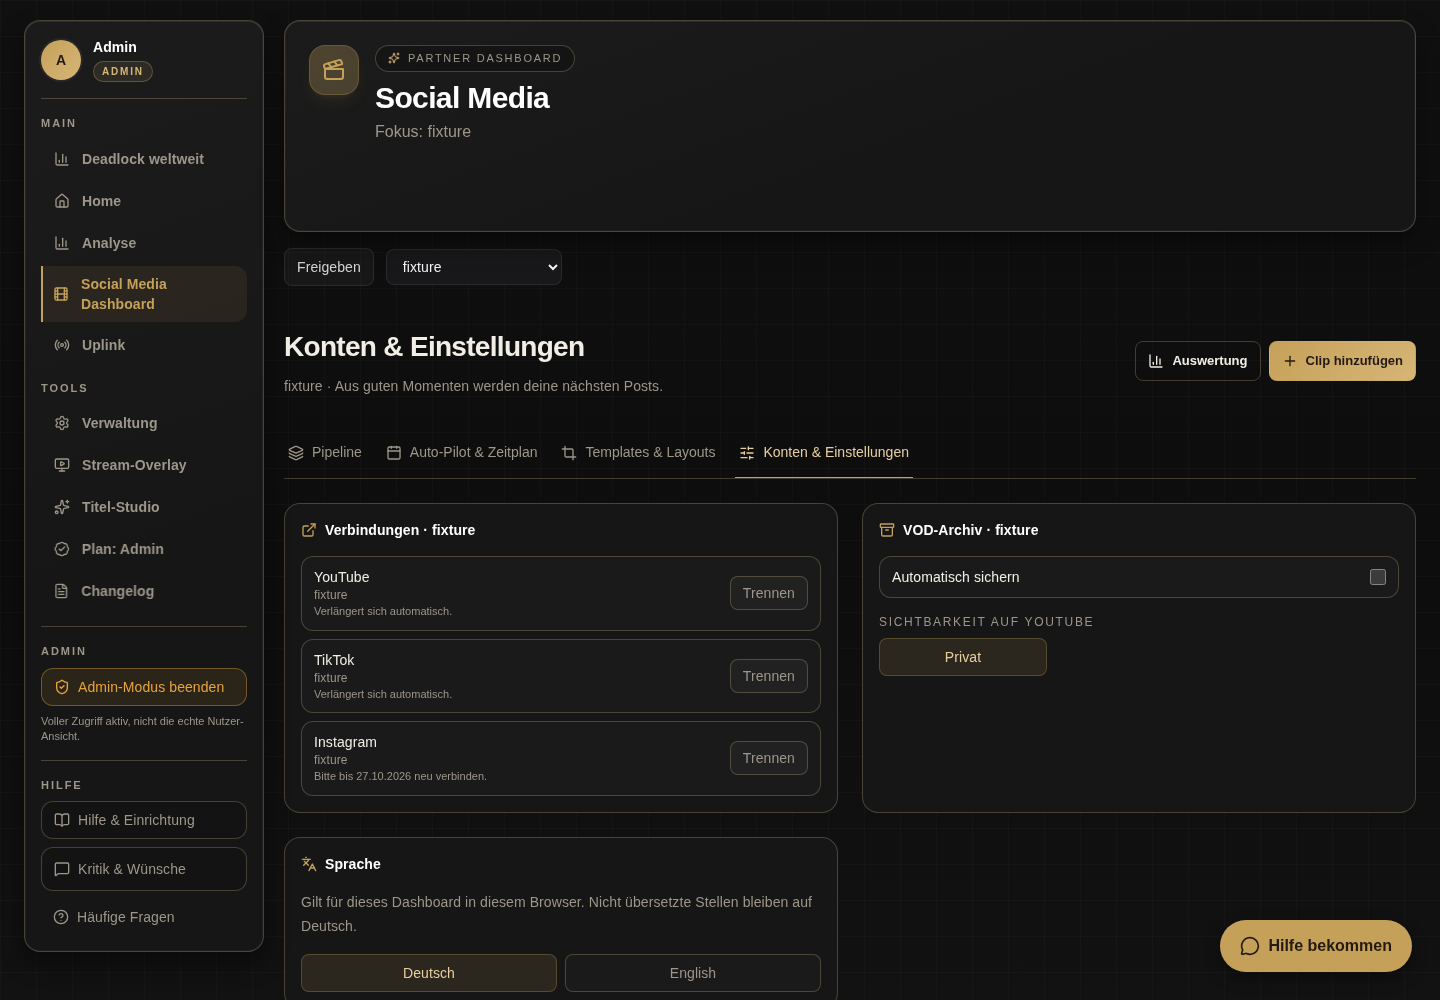
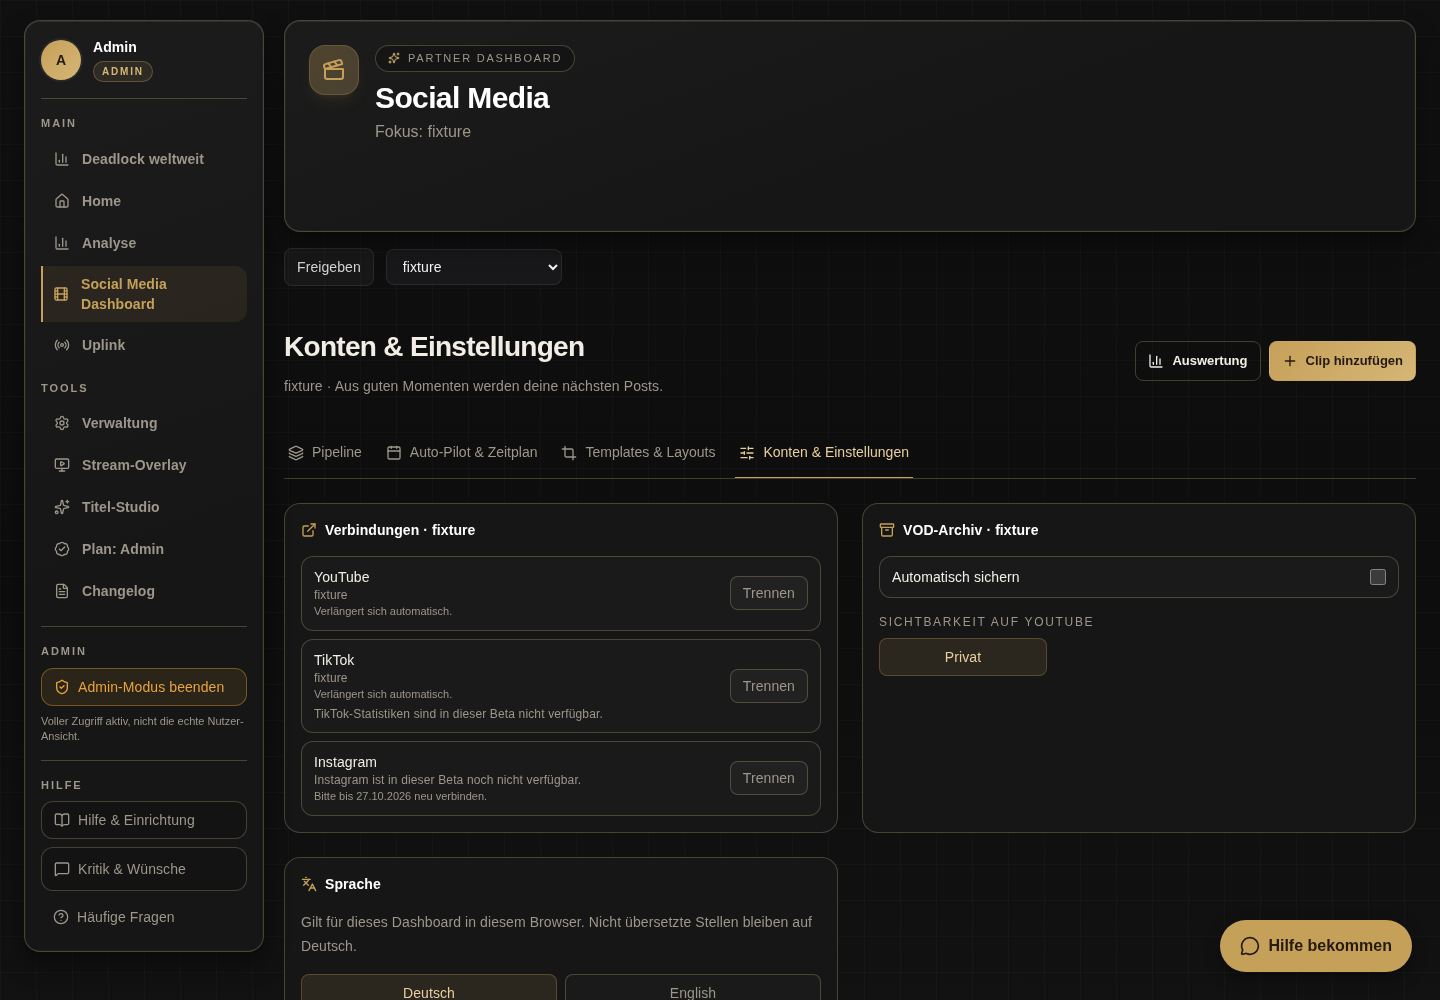
Bildproben nach Upload-Integration erneuern

diff --git a/.tasks/2026-10-07-social-token-ablauf/EVIDENCE.md b/.tasks/2026-10-07-social-token-ablauf/EVIDENCE.md
@@ -1,5 +1,15 @@
 # Prüfnachweise
 
+## Reguläre Integration des neuen Main-Stands
+
+Der geschützte Main-Push wurde abgewiesen, weil `origin/main` während des Reviews von `e0b0dbaf` auf `07f511a3` vorgerückt war. Der fremd veränderte Haupt-Checkout blieb unangetastet. Die alte Remote-Feature-Historie wurde regulär integriert; `ba9bd07c` hatte einen bytegleichen Baum zu `31044228`. Danach entstand der Main-basierte Integrationsbranch `merge/social-token-ablauf-r2`. Der reguläre Merge des neuen Main-Stands ist `e5d0613e`.
+
+Die beiden Konflikte wurden zusammengeführt: Der Rust-Statusleser behält die fallible Credential- und Metadata-Abfrage sowie die neue ID-gebundene Erkennung gemeinsamer Konten. Die Karte behält die neuen Upload-Funktionen und ungekürzten Kontohinweise sowie die Ablaufwahl und den Hinweis zur automatischen Verlängerung. Neue UI oder Versandstrecken wurden nicht gebaut. Das frühere ALLOW deckt diese neue Integration nicht ab.
+
+Dashboard-Vertrag und i18n: 28 passed, 0 failed, 0 skipped, Exit 0. Der erste Dashboard-Build wurde nach 120 Sekunden vom Harness beendet und zählt nicht als Erfolg. Der Wiederholungslauf mit ausreichendem Zeitlimit hat Exit 0; Artefakt `index-CGJC471q.js`. Die fünf Chromium-Proben am neuen Artefakt haben Exit 0, keine Seitenfehler und Dokumentbreite 1440 bei Viewport 1440. Fixtures enthalten jetzt die vom API gelieferten Upload-Fähigkeiten einschließlich der gesperrten Instagram-Beta. Bilder und `ui-proof.json` wurden erneuert. `metadata-read-error.png` und `nonrenewable-6-days.png` wurden visuell geprüft. Formatprüfung der drei Statusdateien: Exit 0. Weitere Rust-Prüfungen und das neue Gate stehen noch aus.
+
+Migration und Produktionshilfe sind unverändert mit denselben SHA384-Werten. Die reine Produktionsleseprobe `PROD-STATE-INTEGRATION.sql` bestätigt Datenbank `twitch_analytics`, Rolle `postgres` und noch keinen Eintrag für `20261007120000` oder `20261007213000`. Der direkte Dateizugriff durch `postgres` war wegen der privaten Home-Verzeichnisse nicht lesbar; die unveränderte Leseprobe wurde als Standardinput übergeben. Keine Produktionsdaten wurden geändert. Der Deploy-Wrapper enthält den One-shot-Migrator für den aktuellen Release-Stand, damit auch die neue Upload-Migration vor dem Dienstneustart berücksichtigt wird.
+
 ## Statusfehler-Fix nach dem zweiten Code-BLOCK
 
 Der weitere frische Fixer hat den vorhandenen Worktree bei `21631a2d` übernommen. Graphify wurde zuerst im Worktree versucht; dort fehlt der lokale Graph. Die globale Graphify-Abfrage und die anschließende Aufrufersuche belegen den Dashboard-Handler als einzigen produktiven Aufrufer des Statuslesers. Der gemeinsame interne Credential-Leser reicht SQL-Fehler als `Result` weiter. Die bestehenden optionalen Credential-Aufrufer behalten ihren Vertrag, der Statusleser reicht dagegen Fehler aus beiden SQL-Abfragen bis zur API durch. Der Handler protokolliert den SQL-Fehler und liefert die vorhandene Antwort HTTP 500 mit `platform_status_failed`, ohne Plattformliste. Kein neuer UI-Pfad und keine neue Versandstrecke.

diff --git a/.tasks/2026-10-07-social-token-ablauf/REGISTER.md b/.tasks/2026-10-07-social-token-ablauf/REGISTER.md
@@ -3,8 +3,8 @@
 - Intent-Thread: d3a1741e-82bc-4a48-865b-2845c663dca7
 - Worker: aktuelle T3-Session, keine weiteren Threads
 - Worktree: /home/nathanael/.worktrees/tb-social-token-ablauf
-- Branch: fix/social-token-ablauf, Basis origin/main e0b0dbaf
-- Status: Unverändertes Gate mit gpt-6.1-sol hat HEAD 4305407d freigegeben (ALLOW, Exit 0). 1696 passed, dieselben 22 API-Baseline-Fehler, Clippy, Online-SQLx und Dashboard-Build Exit 0. TODO-Anmerkung behoben. Regulärer Merge und Betriebsabschluss folgen gemäß Auftrag. Weitere BLOCK-Runden autonom mit frischem nativen Subagenten nach Nutzerregel claude-config 60137bf; bislang kein zusätzlicher Worker. Migration, Deploy, Live-Beweis und Cleanup noch offen.
+- Branch: merge/social-token-ablauf-r2, integrierte Basis origin/main 07f511a3, Integrationscommit e5d0613e
+- Status: Der bisherige Stand 4305407d war mit gpt-6.1-sol freigegeben. Der geschützte Main-Push wurde wegen inzwischen verändertem origin/main abgewiesen. Die historische Remote-Feature-Historie ist regulär und ohne Inhaltsänderung integriert. Der neue Main-Stand ist ebenfalls regulär integriert; ID-gebundene Kontozuordnung, Upload-Funktionen, Ablaufanzeige und SQL-Fehlerweitergabe bleiben erhalten. Prüfungen und neues Gate für diesen integrierten Stand laufen. Das frühere ALLOW gilt nicht als Freigabe der neuen Integration. Weitere BLOCK-Runden autonom mit frischem nativen Subagenten nach Nutzerregel claude-config 60137bf; bislang kein zusätzlicher Worker. Migration, Deploy, Live-Beweis und Cleanup noch offen.
 - Sicherungsbranch: fix/social-token-ablauf-r2. Der nach dem Rebase abweichende Remote-Branch fix/social-token-ablauf wird nicht per Force-Push überschrieben. Nach belegtem Abschluss beide Remote-Feature-Branches erst nach Ancestor-Prüfung löschen.
 - Codecommit: 260bdfdc, ursprünglicher Implementierungscommit nach Rebase bd0dc156
 - Nachweise: EVIDENCE.md, REVIEW.md, TODO.md, BRIEFING-FIXER-STATUS.md und versionierte Bildproben im Task-Ordner

diff --git a/.tasks/2026-10-07-social-token-ablauf/TODO.md b/.tasks/2026-10-07-social-token-ablauf/TODO.md
@@ -2,9 +2,9 @@
 
 ## Stand am 7. Oktober 2026
 
-Ablauf-Fix und SQL-Statusfehler-Fix sind umgesetzt und geprüft. Der unveränderte Merge-Gate hat `4305407d` gegen `origin/main` mit `gpt-6.1-sol` freigegeben: `[gpt-6.1-sol] ALLOW: No blocking defect found in the supplied changes.` Der Metadata-Lesefehler erzeugt jetzt HTTP 500; die vorhandene Dashboard-Karte zeigt drei unbekannte Plattformzustände ohne Verbindungsaktionen. Es wird kein weiterer Fixer für diesen behobenen Befund benötigt. Gate-Nachweis: `gate-status-fixer-round-3.log`, Prüfungen: `EVIDENCE.md`, Bild: `metadata-read-error.png`.
+Ablauf-Fix und SQL-Statusfehler-Fix sind umgesetzt. Der bisherige Stand `4305407d` erhielt mit `gpt-6.1-sol` ALLOW; sein geschützter Main-Push wurde wegen verändertem `origin/main` abgewiesen. Die neue Basis `07f511a3` ist regulär in `merge/social-token-ablauf-r2` integriert (`e5d0613e`). ID-gebundene Kontozuordnung und Upload-Funktionen bleiben erhalten. Prüfungen und ein neues Gate müssen diese Integration freigeben; das bisherige ALLOW ersetzt sie nicht. Am neu gebauten Dashboard sind fünf Ablauf- und Fehlerzustände geprüft, darunter drei unbekannte Plattformzustände ohne Verbindungsaktionen nach HTTP 500.
 
-Implementierung: `fix/social-token-ablauf`, gesichert auf `origin/fix/social-token-ablauf-r2`, Worktree `/home/nathanael/.worktrees/tb-social-token-ablauf`. Der alte Remote-Feature-Branch wurde nicht überschrieben. Der fremd veränderte Haupt-Checkout bleibt unangetastet. Migration und Produktionshilfe bleiben unverändert.
+Implementierung: `fix/social-token-ablauf`, Integration: `merge/social-token-ablauf-r2`, bisherige Sicherung: `origin/fix/social-token-ablauf-r2`, Worktree `/home/nathanael/.worktrees/tb-social-token-ablauf`. Der alte Remote-Feature-Branch wurde nicht überschrieben, seine Historie wurde regulär integriert. Der fremd veränderte Haupt-Checkout bleibt unangetastet. Migration und Produktionshilfe bleiben unverändert.
 
 ## Offene Schritte
 
